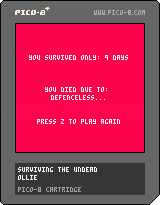
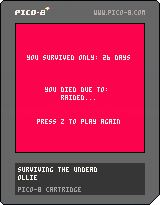
Game reset bugfix

Changed region(s): [[0.1562, 0.2634, 0.8125, 0.2927], [0.3125, 0.439, 0.5938, 0.4976]]

diff --git a/index.js b/index.js
@@ -66,13 +66,13 @@ var _cdpos=0; var _cartdat=[
 0,0,0,0,0,0,0,0,0,0,0,0,0,0,0,0,0,16,0,0,0,0,0,0,0,0,0,0,0,0,0,0,0,0,0,0,0,0,0,0,0,0,0,0,0,0,0,0,0,0,0,0,0,0,0,0,0,0,0,0,0,0,0,0,0,0,0,0,0,0,0,0,0,0,0,0,0,0,0,0,0,0,0,0,0,16,0,0,0,0,0,0,0,0,0,0,0,0,0,0,0,0,0,0,0,0,0,0,0,0,0,0,0,0,0,0,0,0,0,0,0,0,0,0,0,0,0,0,0,0,0,0,0,0,0,0,0,0,0,0,0,0,0,0,0,0,0,0,0,0,0,0,0,16,0,0,0,0,0,0,0,0,0,0,0,0,0,0,0,0,0,0,0,0,0,0,0,0,0,0,0,0,0,0,0,0,0,0,0,0,0,0,0,0,0,0,0,0,0,0,0,0,0,0,0,0,0,0,0,0,0,0,0,0,0,0,0,0,0,0,0,16,0,0,0,0,0,0,0,0,0,0,0,0,0,0,0,0,0,0,0,0,0,0,0,0,0,0,0,0,0,0,0,0,0,0,
 0,0,0,0,0,0,0,0,0,0,0,0,0,0,0,0,0,0,0,0,0,0,0,0,0,0,0,0,0,0,0,0,0,16,0,0,0,0,0,0,0,0,0,0,0,0,0,0,0,0,0,0,0,0,0,0,0,0,0,0,0,0,0,0,0,0,0,0,0,0,0,0,0,0,0,0,0,0,0,0,0,0,0,0,0,0,0,0,0,0,0,0,0,0,0,0,0,0,0,0,0,16,0,0,0,0,0,0,0,0,0,0,0,0,0,0,0,0,0,0,0,0,0,0,0,0,0,0,0,0,0,0,0,0,0,0,0,0,0,0,0,0,0,0,0,0,0,0,0,0,0,0,0,0,0,0,0,0,0,0,0,0,0,0,0,0,0,0,0,16,0,0,0,0,0,0,0,0,0,0,0,0,0,0,0,0,0,0,0,0,0,0,0,0,0,0,0,0,0,0,0,0,0,0,0,0,0,0,0,0,0,0,0,0,0,0,0,0,0,0,0,0,0,0,0,0,0,0,0,0,0,0,0,0,0,0,0,16,0,0,0,0,0,0,0,0,0,0,0,0,0,0,0,0,0,0,
 0,0,0,0,0,0,0,0,0,0,0,0,0,0,0,0,0,0,0,0,0,0,0,0,0,0,0,0,0,0,0,0,0,0,0,0,0,0,0,0,0,0,0,0,0,0,0,0,0,16,0,0,0,0,0,0,0,0,0,0,0,0,0,0,0,0,0,0,0,0,0,0,0,0,0,0,0,0,0,0,0,0,0,0,0,0,0,0,0,0,0,0,0,0,0,0,0,0,0,0,0,0,0,0,0,0,0,0,0,0,0,0,0,0,0,0,0,16,0,0,0,0,0,0,0,0,0,0,0,0,0,0,0,0,0,0,0,0,0,0,0,0,0,0,0,0,0,0,0,0,0,0,0,0,0,0,0,0,0,0,0,0,0,0,0,0,0,0,0,0,0,0,0,0,0,0,0,0,0,0,0,0,0,0,0,16,0,0,0,0,0,0,0,0,0,0,0,0,0,0,0,0,0,0,0,0,0,0,0,0,0,0,0,0,0,0,0,0,0,0,0,0,0,0,0,0,0,0,0,0,0,0,0,0,0,0,0,0,0,0,0,0,0,0,0,0,0,0,0,0,0,0,0,16,0,0,
-58,99,58,0,15,79,0,0,0,45,0,45,2,31,33,30,34,21,34,21,26,19,2,32,20,17,2,33,26,16,17,13,16,1,61,24,27,24,24,21,17,1,60,42,19,24,27,14,13,24,2,34,13,30,31,1,31,15,17,26,17,51,3,60,24,27,30,17,51,4,61,16,30,17,17,26,35,21,16,32,20,2,51,2,4,5,10,61,82,20,17,21,19,20,32,61,83,28,24,13,37,17,30,62,16,44,45,60,92,56,36,62,30,63,156,52,5,61,105,37,61,121,64,67,61,138,66,101,65,96,56,66,116,10,1,1,20,17,13,24,68,67,3,3,1,18,27,27,16,60,91,13,25,25,27,69,25,5,71,18,20,17,24,32,68,54,62,35,1,31,32,13,32,33,31,71,20,0,34,35,20,13,32,2,31,20,13,24,24,2,35,17,2,16,27,0,63,0,34,1,1,15,13,33,31,17,61,45,60,28,76,34,13,25,17,2,24,27,27,28,1,1,18,33,26,15,32,21,27,26,2,59,21,26,21,32,42,43,78,43,32,20,21,31,2,61,121,30,33,26,31,2,13,31,2,31,
-27,62,22,60,24,81,39,64,81,13,16,31,1,17,26,16,64,166,33,28,16,13,32,17,64,24,2,21,18,77,18,81,46,51,3,84,43,26,1,2,2,32,21,32,24,17,62,130,17,24,31,17,62,134,4,62,102,69,46,62,245,86,57,2,51,75,27,64,93,0,9,64,237,68,24,68,220,16,30,13,35,68,250,68,154,62,96,68,248,68,136,62,243,73,49,68,84,0,9,0,9,80,41,27,34,17,30,64,122,68,85,100,24,76,73,80,119,31,82,138,76,214,78,24,14,32,26,28,42,7,43,78,103,101,69,4,73,244,86,22,77,204,1,2,82,55,42,64,48,3,43,64,65,61,22,108,23,24,17,18,32,2,52,2,18,21,26,16,2,95,37,79,17,95,60,50,51,2,18,24,30,42,30,26,16,42,8,43,86,22,0,9,98,90,0,45,61,232,99,53,61,150,6,62,62,98,135,18,27,113,28,65,59,56,56,56,0,34,85,16,92,25,27,18,16,13,37,84,109,69,155,4,69,187,30,112,59,52,2,106,36,2,35,64,39,31,1,60,61,115,20,69,239,68,230,71,
-52,106,140,32,106,44,18,17,96,25,2,14,17,32,108,31,68,59,68,250,78,133,5,78,181,33,28,78,99,114,35,66,94,78,226,115,51,77,239,79,246,69,234,20,27,28,17,2,21,32,0,39,111,24,32,21,116,27,19,120,20,39,69,252,78,182,82,18,110,89,136,23,16,27,35,26,88,16,30,17,28,13,21,30,120,31,122,61,75,27,123,86,88,151,4,91,25,78,249,86,79,125,133,14,27,30,16,17,30,17,16,75,35,32,20,27,124,29,35,93,26,27,35,31,78,255,112,230,89,151,142,53,50,142,38,131,92,95,149,68,54,31,18,36,100,23,1,1,21,18,42,136,81,49,136,33,105,89,98,107,137,69,123,77,42,136,103,62,185,137,204,62,90,140,54,65,176,141,152,132,54,0,45,0,45,30,17,25,17,25,14,149,28,35,108,41,31,35,21,32,15,20,94,63,61,24,26,32,31,141,17,30,17,2,15,27,27,24,0,63,0,63,1,0,9,70,134,48,51,2,70,117,0,9,142,124,14,142,18,16,105,29,2,17,122,18,37,65,18,30,17,106,59,0,9,0,
-9,132,93,2,5,1,0,9,72,87,149,56,64,135,2,64,168,16,17,18,17,26,15,17,24,17,31,31,64,240,64,96,152,110,68,250,151,54,30,13,21,16,17,68,43,67,253,77,138,72,244,155,48,157,23,30,34,91,23,32,27,2,172,25,32,20,72,241,119,39,135,99,143,32,135,241,135,97,144,109,24,27,15,175,29,152,58,32,36,173,34,0,34,179,242,179,18,125,17,62,73,68,33,32,62,89,28,30,76,19,2,38,68,45,61,55,127,22,30,17,15,32,18,110,16,42,3,57,3,57,179,157,57,175,181,57,2,7,161,17,28,30,21,26,32,42,67,106,57,2,20,183,28,172,18,61,114,43,63,197,52,7,57,175,30,63,120,68,105,63,136,69,107,63,24,42,63,201,43,50,61,193,5,43,57,10,43,2,2,2,148,253,158,129,72,249,72,249,72,73,4,5,62,253,75,166,5,8,57,100,27,153,42,74,78,0,34,145,17,31,54,0,34,2,100,22,198,51,57,2,11,76,29,57,2,10,77,112,0,34,190,75,62,68,191,87,103,20,0,34,41,0,34,79,22,3,
-62,237,192,43,64,79,193,37,57,2,12,62,130,67,115,14,33,24,89,28,67,86,195,33,67,53,4,9,67,182,195,95,54,0,34,69,42,196,91,67,103,10,83,42,62,95,83,159,198,16,83,189,199,16,87,211,167,17,5,2,0,45,66,62,87,137,0,34,0,148,150,131,73,20,76,16,11,73,23,76,17,0,9,78,83,0,139,170,134,62,64,73,37,62,144,0,145,162,170,64,66,209,22,80,20,2,64,132,0,131,146,218,62,87,4,66,74,177,34,219,69,193,83,181,245,188,150,123,28,105,246,105,246,105,70,11,72,21,227,58,112,90,37,27,33,232,80,150,26,27,26,24,37,54,2,82,16,229,60,178,20,2,92,44,131,31,120,57,63,146,16,21,153,24,16,33,17,122,21,63,16,1,68,127,115,246,2,231,41,2,13,19,13,21,26,183,17,109,121,68,81,109,153,69,83,85,254,99,202,68,104,116,138,69,106,89,247,2,5,103,163,228,62,120,128,229,61,116,245,5,43,2,50,106,45,106,138,73,152,123,141,74,157,120,248,64,51,121,235,111,76,120,91,255,16,20,
-13,26,16,24,17,2,14,33,32,32,236,22,21,26,28,33,32,214,156,250,75,15,27,26,32,30,27,24,237,30,63,119,142,60,252,89,31,133,26,32,17,63,229,227,110,66,122,24,21,14,30,13,30,37,221,147,0,45,244,28,136,69,2,13,24,21,19,26,2,18,30,27,25,54,2,28,21,15,27,0,45,11,254,17,23,21,13,56,15,27,25,52,60,42,52,138,78,146,23,59,32,17,36,32,247,137,136,127,243,20,249,28,31,32,62,36,220,16,26,19,217,23,32,21,250,26,225,18,247,54,221,57,28,21,36,206,47,21,248,28,2,15,20,13,30,198,18,147,50,223,54,15,33,32,61,42,20,13,24,18,2,77,24,2,30,218,37,97,46,196,30,150,45,32,33,30,26,142,109,150,56,119,34,43,0,45,225,34,42,40,31,53,7,43,142,27,253,210,34,69,255,158,42,67,90,153,79,67,251,67,251,67,219,126,110,67,91,8,67,118,81,49,27,24,24,21,31,252,33,15,20,17,15,23,253,128,21,200,16,61,27,16,166,26,42,27,14,22,4,57,2,60,22,148,47,169,
-67,36,4,233,23,61,40,56,36,170,102,37,61,115,37,171,105,35,62,118,35,172,108,20,63,121,80,21,64,126,5,64,78,5,64,158,61,115,64,142,62,118,64,142,63,121,20,240,51,42,69,24,48,2,42,65,16,50,62,31,164,22,85,40,61,37,60,31,4,165,21,49,66,43,86,44,70,29,62,24,66,21,50,64,20,43,62,71,72,17,60,30,62,23,49,67,30,225,110,88,104,32,30,33,17,246,27,212,24,61,132,18,13,60,63,220,87,0,0,0,0,0,0,0,0,0,0,0,0,0,0,0,0,0,0,0,0,0,0,0,0,0,0,0,0,0,0,0,0,0,0,0,0,0,0,0,0,0,0,0,0,0,0,0,0,0,0,0,0,0,0,0,0,0,0,0,0,0,0,0,0,0,0,0,0,0,0,0,0,0,0,0,0,0,0,0,0,0,0,0,0,0,0,0,0,0,0,0,0,0,0,0,0,0,0,0,0,0,0,0,0,0,0,0,0,0,0,0,0,0,0,0,0,0,0,0,0,0,0,0,0,0,0,0,0,0,0,0,0,0,0,0,0,0,0,0,
+58,99,58,0,15,182,0,0,0,45,0,45,2,31,33,30,34,21,34,21,26,19,2,32,20,17,2,33,26,16,17,13,16,1,61,24,27,24,24,21,17,1,60,42,19,24,27,14,13,24,2,34,13,30,31,1,31,15,17,26,17,51,3,60,24,27,30,17,51,4,61,16,30,17,17,26,35,21,16,32,20,2,51,2,4,5,10,61,82,20,17,21,19,20,32,61,83,28,24,13,37,17,30,62,16,44,45,60,92,56,36,62,30,63,156,52,5,61,105,37,61,121,64,67,61,138,66,101,65,96,56,66,116,10,1,1,20,17,13,24,68,67,3,3,1,18,27,27,16,60,91,13,25,25,27,69,25,5,71,18,20,17,24,32,68,54,62,35,1,31,32,13,32,33,31,71,20,0,34,35,20,13,32,2,31,20,13,24,24,2,35,17,2,16,27,0,63,0,34,1,1,15,13,33,31,17,61,45,60,28,76,34,13,25,17,2,24,27,27,28,1,1,18,33,26,15,32,21,27,26,2,59,21,26,21,32,42,43,78,43,32,20,21,31,2,61,121,30,33,26,31,2,13,31,2,31,
+27,62,22,60,24,81,39,64,81,13,16,31,1,17,26,16,64,166,33,28,16,13,32,17,64,24,2,21,18,77,18,81,46,51,3,84,43,26,1,2,2,32,21,32,24,17,62,130,17,24,31,17,62,134,4,62,102,69,46,62,245,86,57,2,51,75,27,64,93,0,9,64,237,68,24,68,220,16,30,13,35,68,250,68,154,62,96,68,248,68,136,62,243,73,49,68,84,0,9,0,9,80,41,27,34,17,30,64,122,68,85,100,24,76,73,80,119,31,82,138,76,214,78,24,14,32,26,28,42,7,43,73,106,85,47,30,17,31,17,84,47,2,80,85,4,74,242,87,20,78,202,1,2,83,53,42,64,62,3,43,64,79,61,22,109,21,24,17,18,32,2,52,2,18,21,26,16,2,96,35,79,31,96,58,50,51,2,18,24,30,42,30,26,16,42,8,43,87,20,0,9,99,88,0,45,61,232,100,51,61,150,6,62,62,99,133,18,27,114,26,65,59,56,56,56,0,34,85,30,93,23,27,18,16,13,37,85,107,69,155,4,69,187,30,113,57,52,2,107,34,2,35,64,39,31,1,
+60,61,116,18,69,239,68,230,71,52,107,138,32,107,42,18,17,97,23,2,14,17,32,109,29,68,59,68,250,78,133,5,78,181,33,28,78,99,115,33,66,94,78,226,116,49,77,239,79,246,69,234,20,27,28,17,2,21,32,0,39,112,22,32,21,117,25,19,121,18,39,69,252,78,182,82,18,111,87,137,21,16,27,35,26,88,16,30,17,28,13,21,30,121,29,123,59,75,27,124,84,88,151,4,91,25,78,249,86,79,126,131,14,27,30,16,98,18,16,75,35,32,20,27,125,27,35,93,26,27,35,31,78,255,99,242,101,155,94,109,134,69,94,67,60,92,134,135,0,9,134,200,0,9,146,57,145,43,127,217,95,144,148,60,50,148,45,138,83,100,158,73,63,31,18,36,106,16,1,1,21,18,42,142,88,49,142,40,112,80,69,199,130,68,42,142,110,62,185,144,195,62,90,146,61,65,176,147,159,138,61,0,45,0,45,30,17,25,17,25,14,156,19,35,114,34,31,35,21,32,15,20,100,56,61,24,26,32,31,147,24,74,20,15,27,27,24,0,63,0,63,1,0,9,70,134,
+48,51,2,70,117,0,9,149,115,14,148,25,16,111,22,2,17,128,25,37,65,18,30,17,112,52,0,9,78,28,139,52,2,5,1,0,9,72,87,155,63,64,135,2,64,168,16,17,18,17,26,15,17,24,17,31,31,64,240,64,96,159,101,68,250,157,61,30,13,21,16,17,68,43,67,253,77,138,72,244,161,55,163,30,30,34,97,16,32,27,2,179,16,32,20,72,241,125,32,141,106,149,39,141,248,141,104,151,100,24,27,15,182,20,159,49,32,36,179,41,0,34,185,249,185,25,130,26,62,73,68,33,32,62,89,28,143,28,31,2,38,68,45,61,55,132,31,30,17,15,32,18,115,25,42,3,57,3,57,186,148,57,181,188,57,2,7,167,24,28,30,21,26,32,42,67,106,57,2,20,190,19,178,25,61,114,43,63,197,52,7,57,182,21,63,120,68,105,63,136,69,107,63,24,42,63,201,43,50,61,193,5,43,57,10,43,2,2,2,154,246,164,136,72,249,72,249,72,73,4,5,62,253,75,166,5,8,57,100,27,159,35,74,78,0,34,150,26,31,54,0,34,2,100,22,204,
+58,57,2,11,76,29,57,2,10,77,112,0,34,197,66,62,68,197,94,103,20,0,34,41,0,34,79,22,3,62,237,199,34,64,79,199,44,57,2,12,62,130,67,115,14,33,24,89,28,67,86,201,40,67,53,4,9,67,182,202,86,54,0,34,69,42,203,82,67,103,10,83,42,62,95,83,159,204,23,83,189,205,23,87,211,172,26,5,2,0,45,66,62,87,137,0,34,0,148,155,140,73,20,76,16,11,73,23,76,17,0,9,78,83,0,139,175,143,62,64,73,37,62,144,0,145,168,163,64,66,215,29,80,20,2,64,132,0,131,152,211,62,87,4,66,74,182,43,225,76,199,90,186,254,194,157,123,28,105,246,105,246,105,70,11,150,28,234,49,112,90,37,27,33,238,87,156,19,27,26,24,37,54,2,82,16,236,51,183,29,2,92,44,131,31,120,57,63,146,16,21,159,17,16,33,17,122,21,63,16,1,68,127,115,246,2,238,32,2,13,19,13,21,26,188,26,109,121,68,81,109,153,69,83,85,254,99,202,68,104,116,138,69,106,89,247,2,5,103,163,235,53,120,128,236,52,
+116,245,5,43,2,50,106,45,106,138,73,152,123,141,74,157,120,248,64,51,121,235,111,76,120,91,243,19,20,13,26,16,24,17,2,14,33,32,32,242,29,21,26,28,33,32,221,147,254,77,15,27,26,32,30,27,24,244,21,63,119,142,60,254,64,2,31,133,26,32,17,63,229,234,101,66,122,24,21,14,30,13,30,37,227,154,0,45,251,19,136,69,2,13,24,21,19,26,2,18,30,27,25,54,2,28,21,15,27,0,45,11,56,35,21,23,21,13,56,15,27,25,52,60,42,52,138,78,146,23,59,32,17,36,32,254,128,136,127,249,27,254,20,31,32,62,36,225,25,26,19,223,16,32,21,253,16,230,27,253,61,227,50,28,21,36,212,40,21,26,2,13,2,15,20,13,30,203,27,147,50,228,63,15,33,32,61,42,20,13,24,18,2,77,24,2,30,223,46,97,46,202,23,150,45,32,33,30,26,142,109,150,56,119,34,43,0,45,230,43,42,40,31,53,7,43,142,27,250,221,34,69,255,158,42,67,90,153,79,67,251,67,251,67,219,126,110,67,91,8,67,118,81,49,27,24,
+24,21,31,249,32,15,20,17,15,23,249,143,21,202,19,61,27,16,166,26,42,27,14,22,4,57,2,60,22,148,47,169,67,36,4,239,16,61,40,56,36,170,102,37,61,115,37,171,105,35,62,118,35,172,108,20,63,121,80,21,64,126,5,64,78,5,64,158,61,115,64,142,62,118,64,142,63,121,20,245,60,42,69,24,48,2,42,65,16,50,62,31,164,22,85,40,61,37,60,31,4,165,21,49,66,43,86,44,70,29,62,24,66,21,50,64,20,43,62,71,72,17,60,30,62,23,49,67,30,231,103,88,104,32,30,33,17,252,20,212,24,61,132,18,13,60,63,226,80,0,0,0,0,0,0,0,0,0,0,0,0,0,0,0,0,0,0,0,0,0,0,0,0,0,0,0,0,0,0,0,0,0,0,0,0,0,0,0,0,0,0,0,0,0,0,0,0,0,0,0,0,0,0,0,0,0,0,0,0,0,0,0,0,0,0,0,0,0,0,0,0,0,0,0,0,0,0,0,0,0,0,0,0,0,0,0,0,0,0,0,0,0,0,0,0,0,0,0,0,0,0,0,0,0,0,0,
 0,0,0,0,0,0,0,0,0,0,0,0,0,0,0,0,0,0,0,0,0,0,0,0,0,0,0,0,0,0,0,0,0,0,0,0,0,0,0,0,0,0,0,0,0,0,0,0,0,0,0,0,0,0,0,0,0,0,0,0,0,0,0,0,0,0,0,0,0,0,0,0,0,0,0,0,0,0,0,0,0,0,0,0,0,0,0,0,0,0,0,0,0,0,0,0,0,0,0,0,0,0,0,0,0,0,0,0,0,0,0,0,0,0,0,0,0,0,0,0,0,0,0,0,0,0,0,0,0,0,0,0,0,0,0,0,0,0,0,0,0,0,0,0,0,0,0,0,0,0,0,0,0,0,0,0,0,0,0,0,0,0,0,0,0,0,0,0,0,0,0,0,0,0,0,0,0,0,0,0,0,0,0,0,0,0,0,0,0,0,0,0,0,0,0,0,0,0,0,0,0,0,0,0,0,0,0,0,0,0,0,0,0,0,0,0,0,0,0,0,0,0,0,0,0,0,0,0,0,0,0,0,0,0,0,0,0,0,0,0,0,0,0,0,0,0,0,0,0,0,0,0,0,0,0,0,
 0,0,0,0,0,0,0,0,0,0,0,0,0,0,0,0,0,0,0,0,0,0,0,0,0,0,0,0,0,0,0,0,0,0,0,0,0,0,0,0,0,0,0,0,0,0,0,0,0,0,0,0,0,0,0,0,0,0,0,0,0,0,0,0,0,0,0,0,0,0,0,0,0,0,0,0,0,0,0,0,0,0,0,0,0,0,0,0,0,0,0,0,0,0,0,0,0,0,0,0,0,0,0,0,0,0,0,0,0,0,0,0,0,0,0,0,0,0,0,0,0,0,0,0,0,0,0,0,0,0,0,0,0,0,0,0,0,0,0,0,0,0,0,0,0,0,0,0,0,0,0,0,0,0,0,0,0,0,0,0,0,0,0,0,0,0,0,0,0,0,0,0,0,0,0,0,0,0,0,0,0,0,0,0,0,0,0,0,0,0,0,0,0,0,0,0,0,0,0,0,0,0,0,0,0,0,0,0,0,0,0,0,0,0,0,0,0,0,0,0,0,0,0,0,0,0,0,0,0,0,0,0,0,0,0,0,0,0,0,0,0,0,0,0,0,0,0,0,0,0,0,0,0,0,0,0,
 0,0,0,0,0,0,0,0,0,0,0,0,0,0,0,0,0,0,0,0,0,0,0,0,0,0,0,0,0,0,0,0,0,0,0,0,0,0,0,0,0,0,0,0,0,0,0,0,0,0,0,0,0,0,0,0,0,0,0,0,0,0,0,0,0,0,0,0,0,0,0,0,0,0,0,0,0,0,0,0,0,0,0,0,0,0,0,0,0,0,0,0,0,0,0,0,0,0,0,0,0,0,0,0,0,0,0,0,0,0,0,0,0,0,0,0,0,0,0,0,0,0,0,0,0,0,0,0,0,0,0,0,0,0,0,0,0,0,0,0,0,0,0,0,0,0,0,0,0,0,0,0,0,0,0,0,0,0,0,0,0,0,0,0,0,0,0,0,0,0,0,0,0,0,0,0,0,0,0,0,0,0,0,0,0,0,0,0,0,0,0,0,0,0,0,0,0,0,0,0,0,0,0,0,0,0,0,0,0,0,0,0,0,0,0,0,0,0,0,0,0,0,0,0,0,0,0,0,0,0,0,0,0,0,0,0,0,0,0,0,0,0,0,0,0,0,0,0,0,0,0,0,0,0,0,0,
